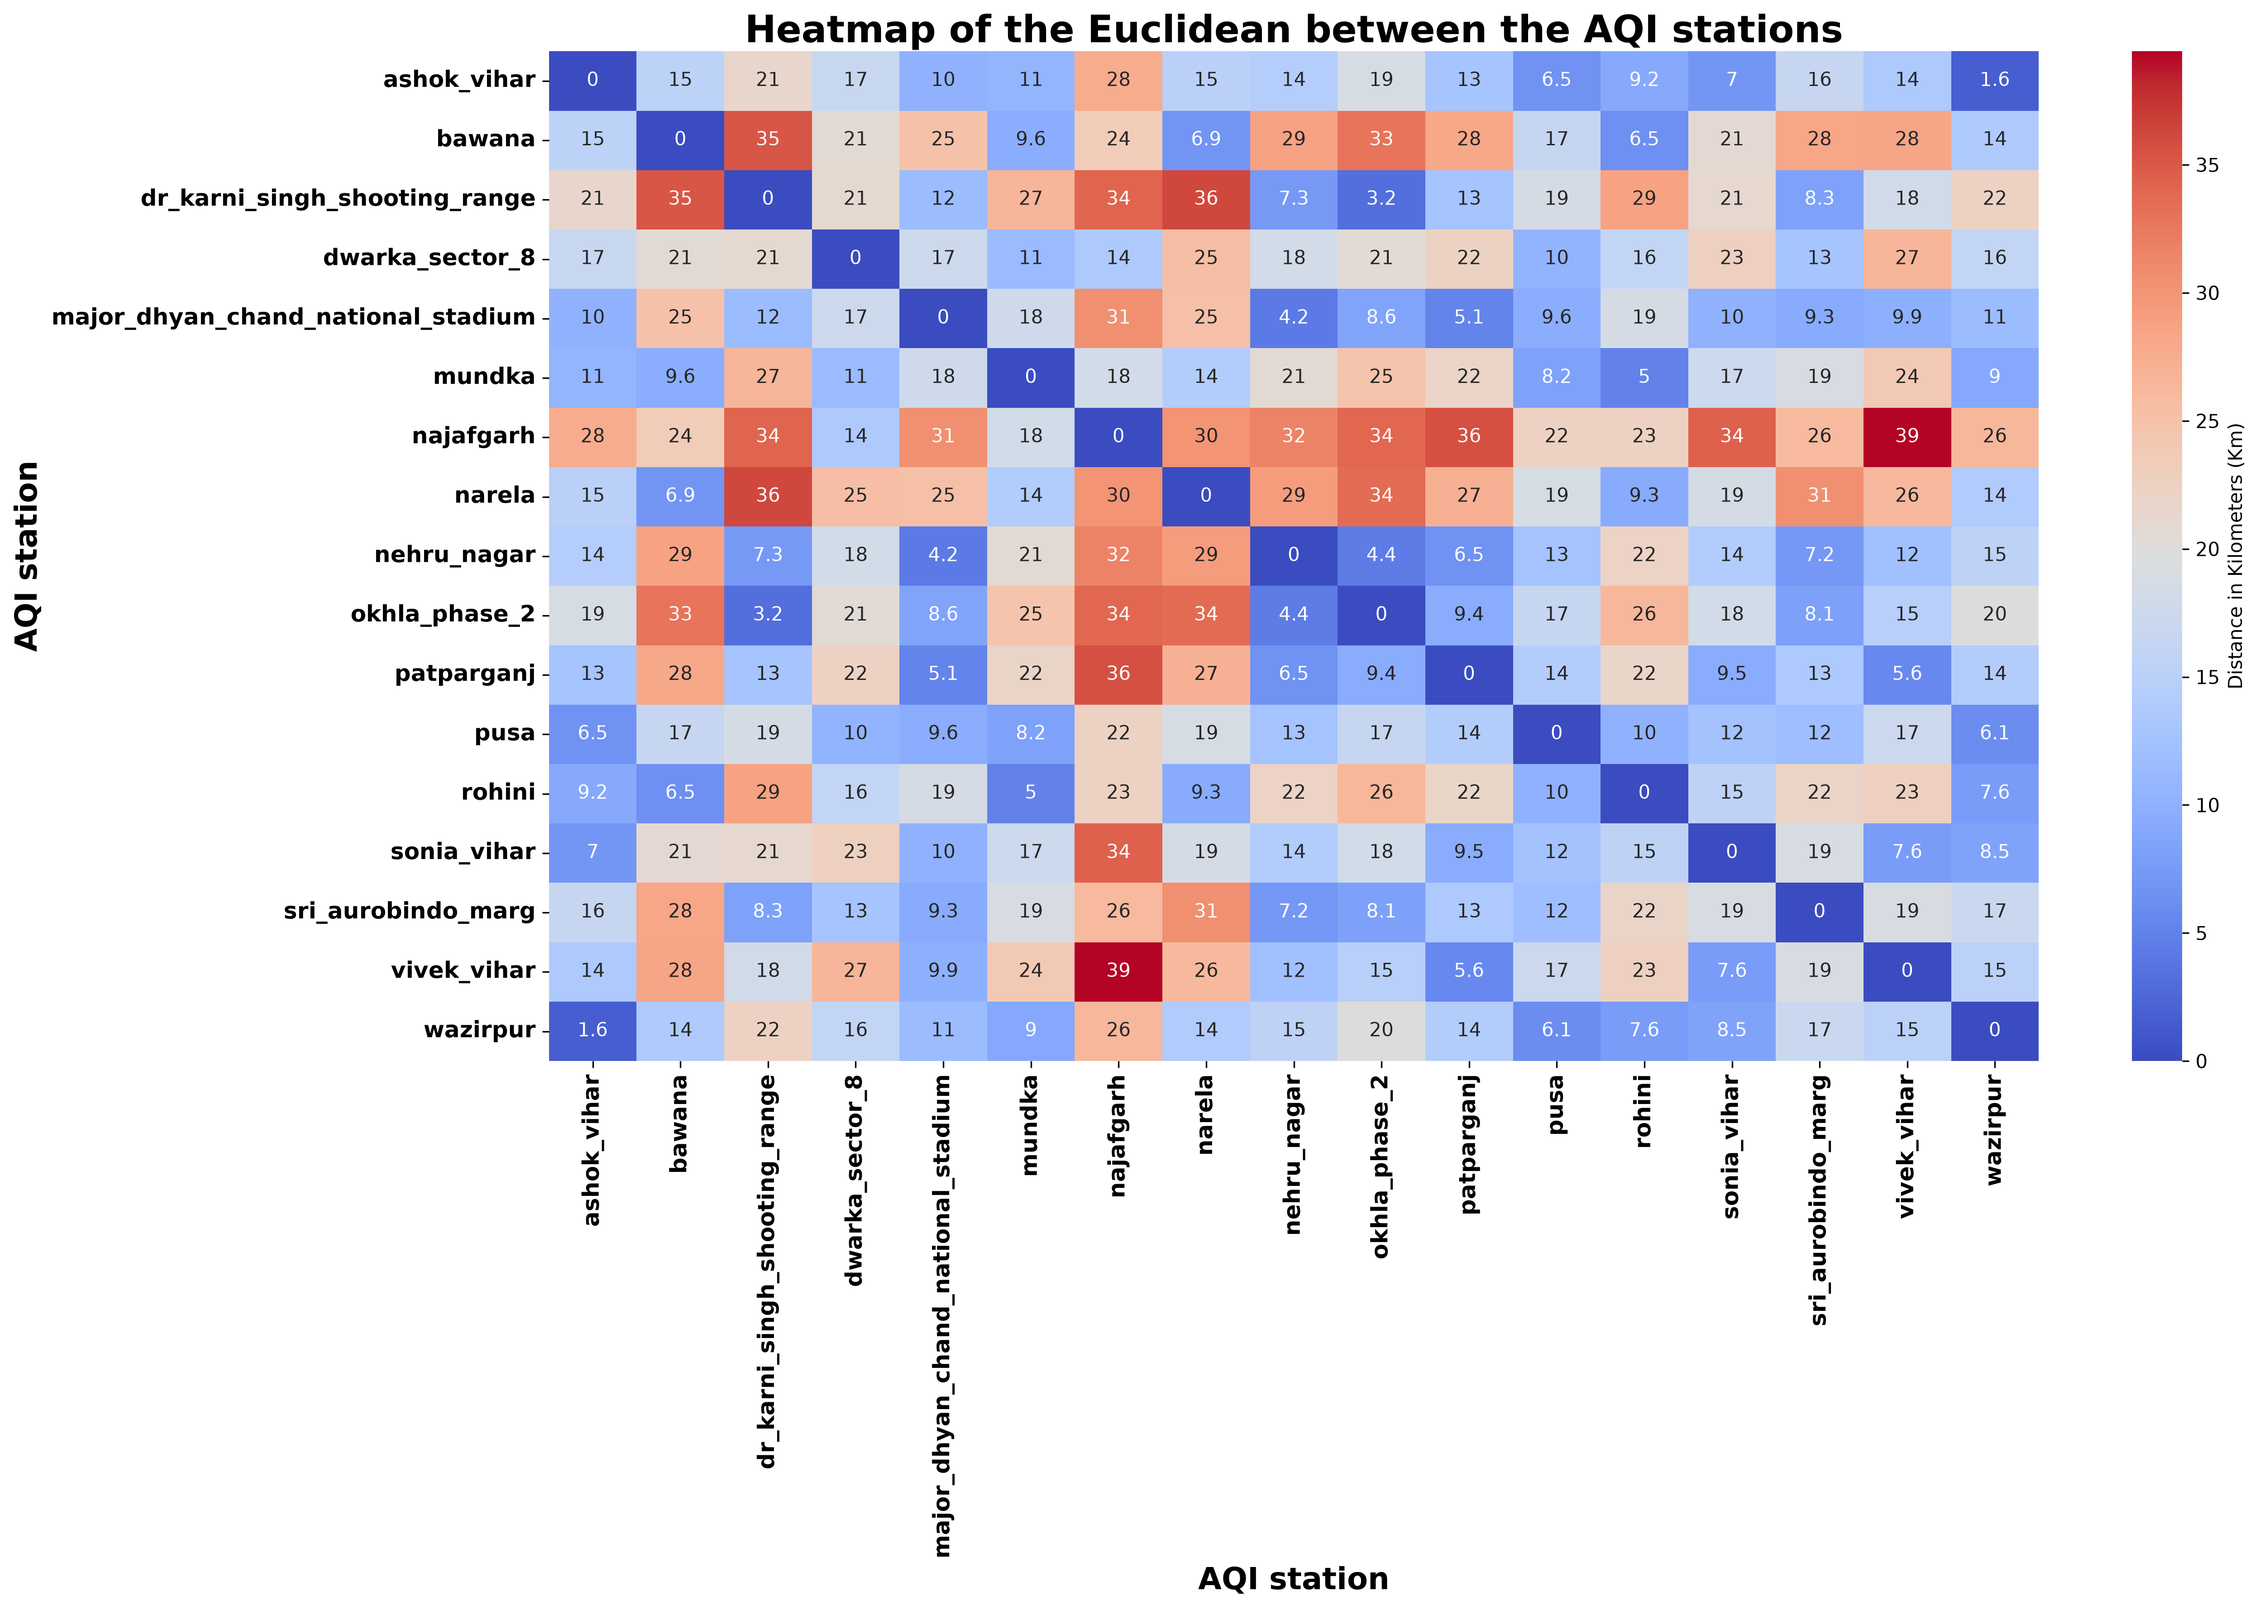
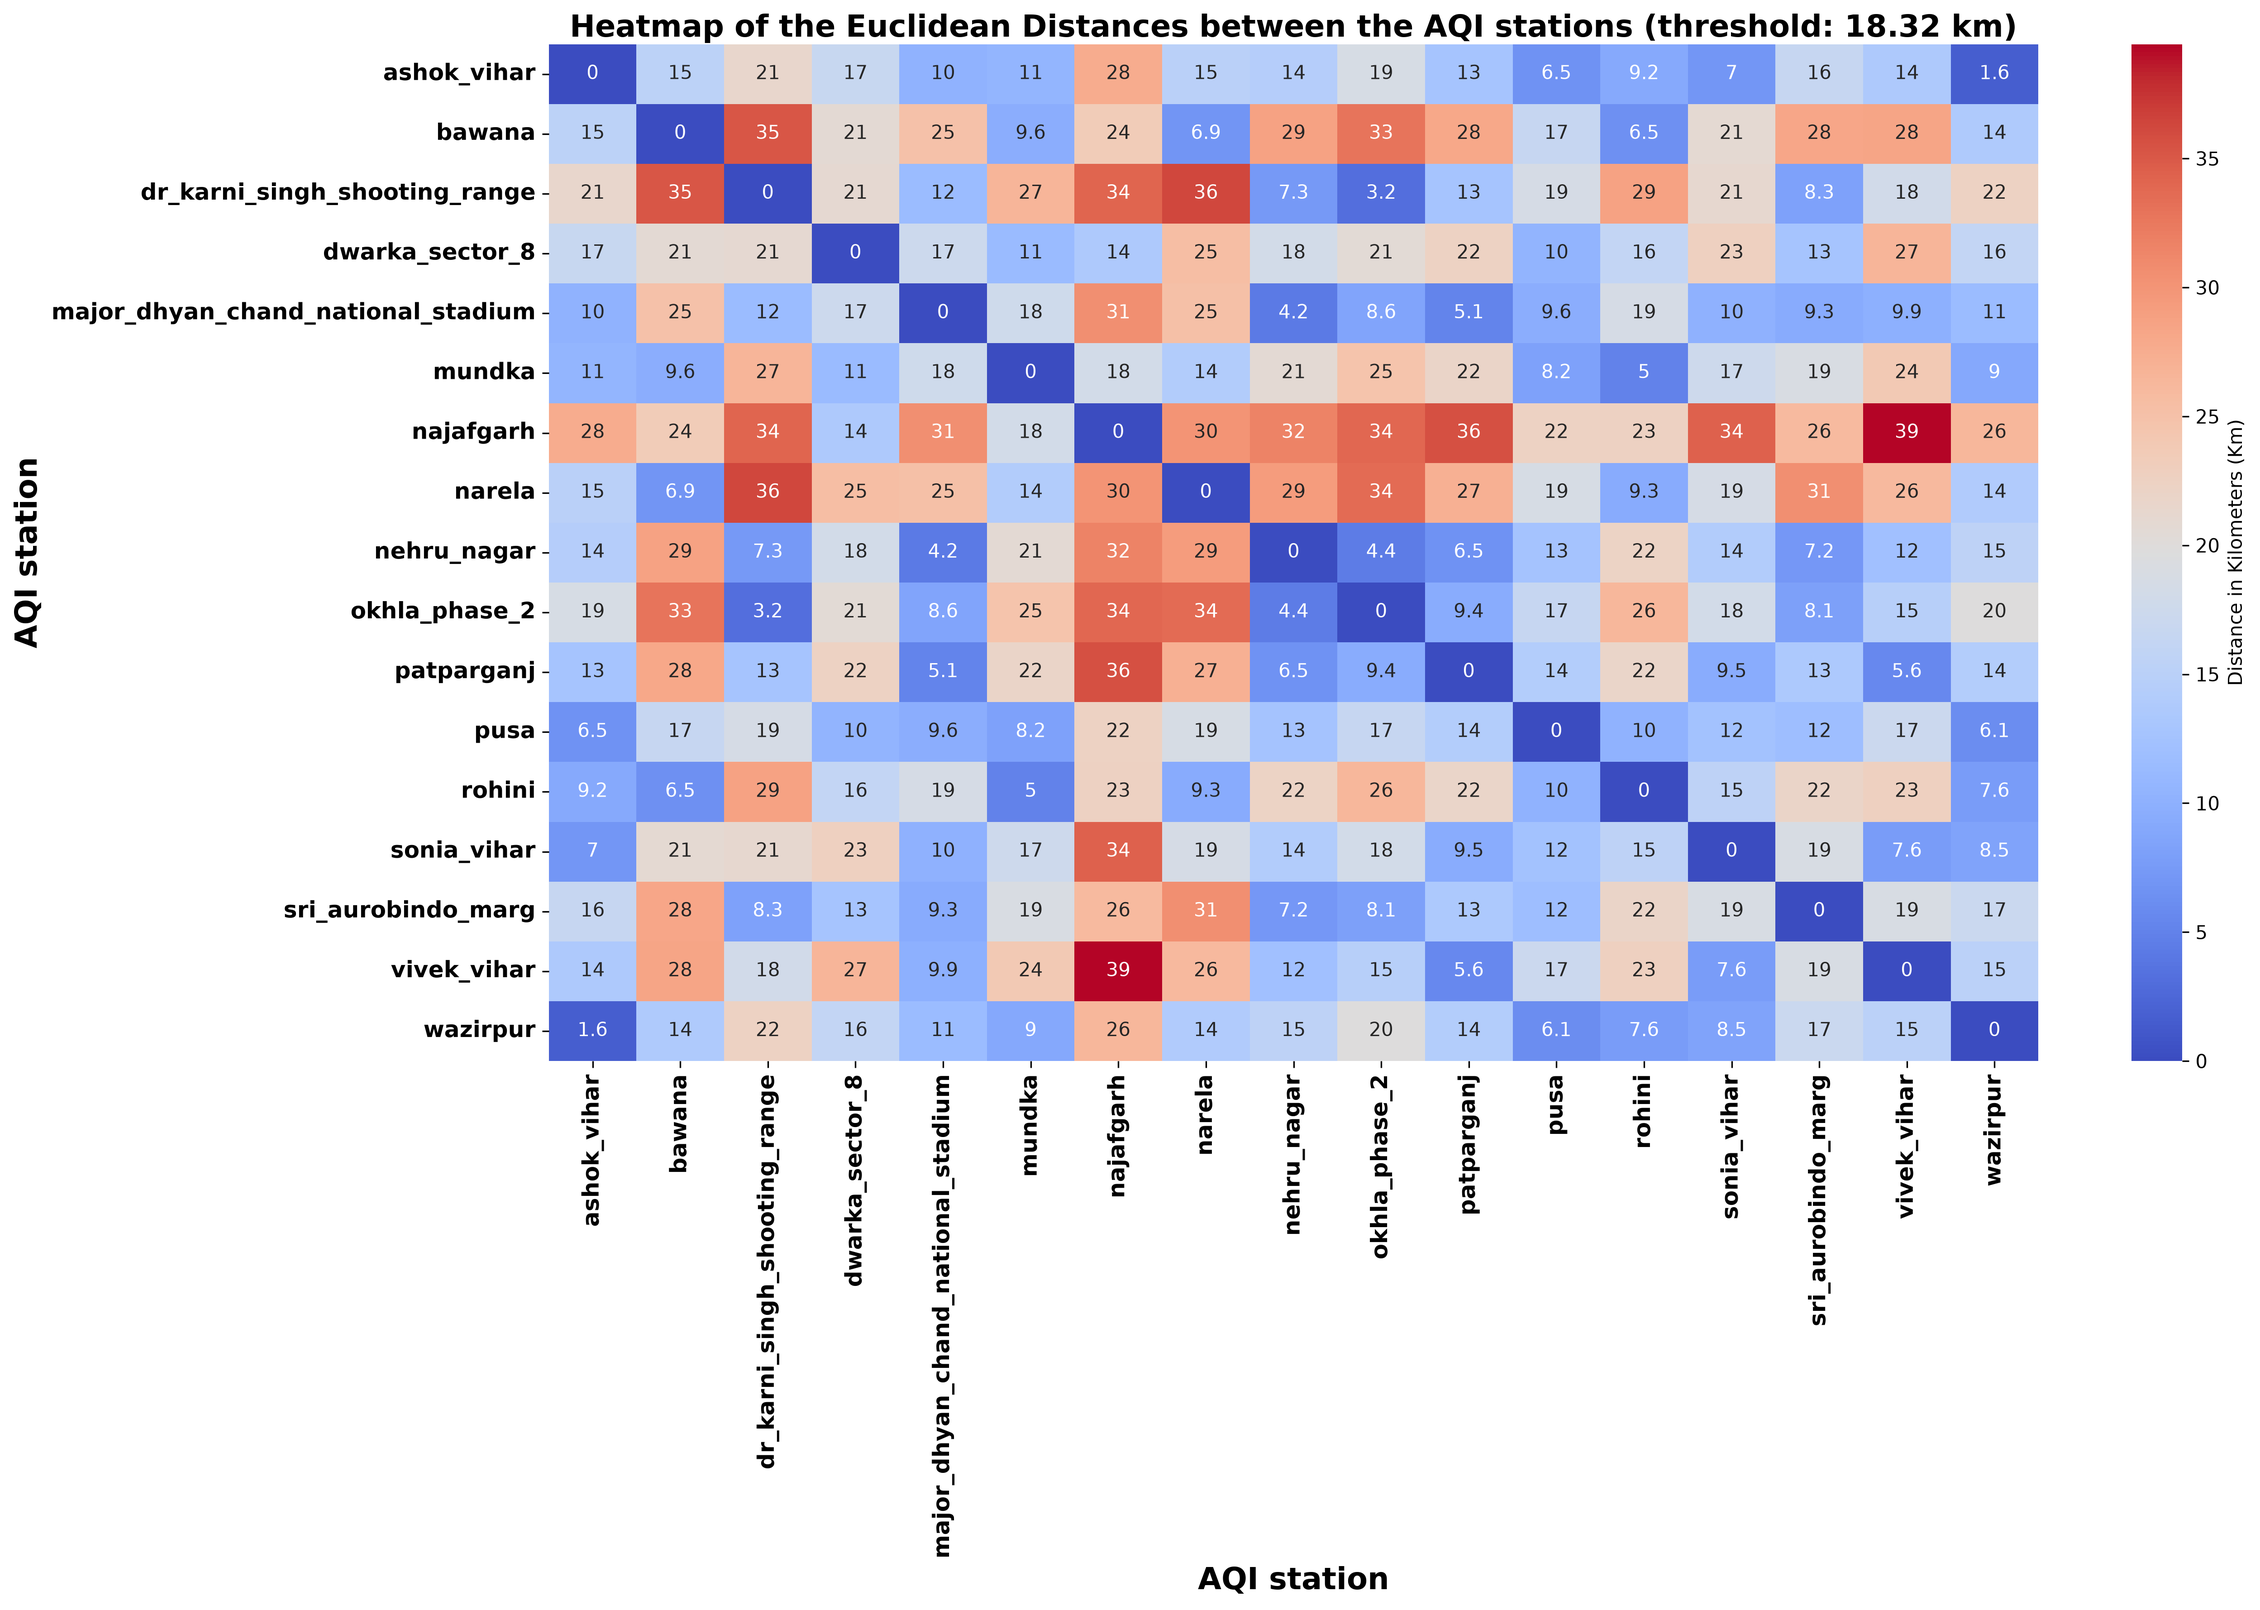
improved models_utils file

diff --git a/src/models/model_utils.py b/src/models/model_utils.py
@@ -33,7 +33,7 @@ def euclidean(phi_1, lemda_1, phi_2, lemda_2):
 
     return dist
 
-def dist_plot(df, type):
+def dist_plot(df, type, threshold):
     DISTANCE_MATRIX_DIR = VISUALIZATION_DIR / "distance_matrix"
     DISTANCE_MATRIX_DIR.mkdir(parents=True, exist_ok=True)
 
@@ -41,10 +41,10 @@ def dist_plot(df, type):
 
     plt.figure(figsize=(18, 12))
     sns.heatmap(data=df, cmap='coolwarm', cbar_kws={'label': f'Distance in Kilometers (Km)' if type != "adj" else None}, annot=True)
-    if type != "adj":
+    if type == "Adjacency":
         plt.title(f"Heatmap of the {type} between the AQI stations", fontsize=20, pad=4, fontweight="bold")
     else:
-        plt.title(f"Heatmap of the {type} Distances between the AQI stations", fontsize=16, pad=4, fontweight="bold")
+        plt.title(f"Heatmap of the {type} Distances between the AQI stations (threshold: {threshold} km)", fontsize=16, pad=4, fontweight="bold")
     plt.xticks(fontsize=12, rotation=90, fontweight="bold")
     plt.yticks(fontsize=12, rotation=0, fontweight="bold")
     plt.ylabel("AQI station", fontsize=16, fontweight="bold")
@@ -89,17 +89,18 @@ def build_adjacency(stations_coor_df):
         columns=stations
     ).round(2)
 
-    dist_plot(haversine_distance_df, "Haversine")
-    dist_plot(euclidean_distance_df, "Euclidean")
-
     off_diag = haversine_distance_matrix[~np.eye(n, dtype=bool)]
-    threshold = off_diag.mean() if n > 1 else 0.0
+    threshold = off_diag.mean().round(2) if n > 1 else 0.0
+
+    dist_plot(haversine_distance_df, "Haversine", threshold)
+    dist_plot(euclidean_distance_df, "Euclidean", threshold)
+
     adj = (haversine_distance_matrix < threshold).astype(np.float32)
     np.fill_diagonal(adj, 1.0)
 
     np.save(EXTERNAL_DIR / "adjacency_matrix.npy", adj)
     adjacency_df = pd.DataFrame(adj, index=stations, columns=stations).round(2)
-    dist_plot(adjacency_df, "Adjacency")
+    dist_plot(adjacency_df, "Adjacency", threshold)
 
     return adjacency_df
 
